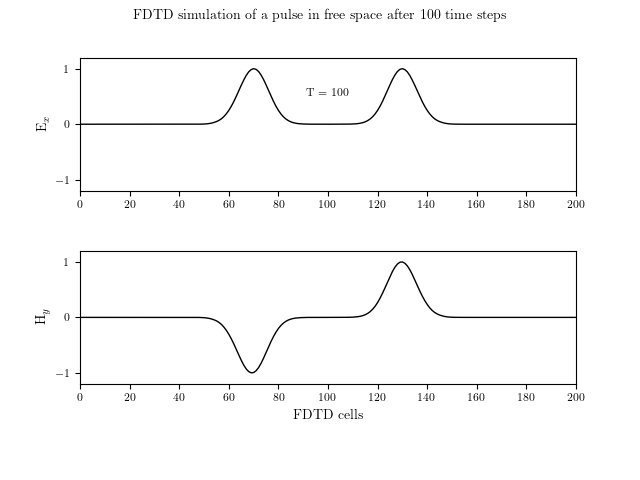
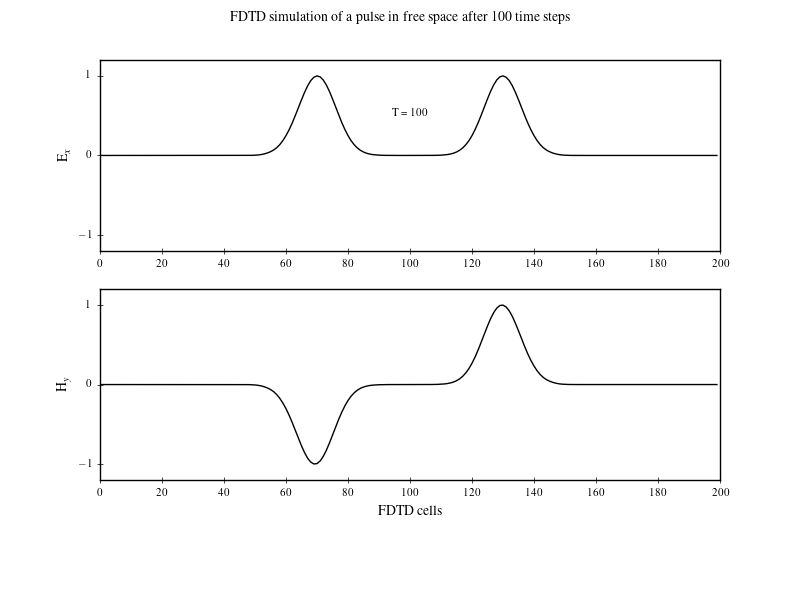
simulation in free space

diff --git a/fd1d/program/fd1d_1_1.py b/fd1d/program/fd1d_1_1.py
@@ -7,54 +7,86 @@
 # FDTD simulation of a pulse in free space after 100 steps.
 # The pulse originated in the center and travels outward.
 
-import matplotlib
 import matplotlib.pyplot as plt
 import numpy as np
 
-matplotlib.rcParams["text.usetex"] = True
-matplotlib.rcParams["pgf.texsystem"] = "pdflatex"
-matplotlib.rcParams.update(
-    {
-        "font.family": "serif",
-        "font.size": 8,
-        "axes.labelsize": 10,
-        "axes.titlesize": 10,
-        "figure.titlesize": 10,
-    }
-)
+plt.style.use("classic")
+plt.style.use("../pyplot.mplstyle")
 
-ke = 201
-ex = np.zeros(ke)
-hy = np.zeros(ke)
 
-# Pulse parameters
-kc = int(ke / 2)
-t0 = 40
-spread = 12
-nsteps = 100
+def visualize(ex: np.ndarray, hy: np.ndarray) -> None:
+    """Data visualization with Matplotlib"""
 
-# FDTD loop
-for time_step in range(1, nsteps + 1):
+    fig, (ax1, ax2) = plt.subplots(2, sharex=False, gridspec_kw={"hspace": 0.2})
+    fig.suptitle(r"FDTD simulation of a pulse in free space after 100 time steps")
+    ax1.plot(ex, "k", lw=1)
+    ax1.text(100, 0.5, "T = 100", horizontalalignment="center")
+    ax1.set(xlim=(0, 200), ylim=(-1.2, 1.2), ylabel=r"E$_x$")
+    ax1.set(xticks=range(0, 220, 20), yticks=np.arange(-1, 1.2, 1))
+    ax2.plot(hy, "k", lw=1)
+    ax2.set(xlim=(0, 200), ylim=(-1.2, 1.2), xlabel=r"FDTD cells", ylabel=r"H$_y$")
+    ax2.set(xticks=range(0, 220, 20), yticks=np.arange(-1, 1.2, 1))
+    plt.subplots_adjust(bottom=0.2, hspace=0.45)
+    plt.savefig("fd1d_1_1.png")
 
-    # calculate the Ex field
-    for k in range(1, ke):
-        ex[k] = ex[k] + 0.5 * (hy[k - 1] - hy[k])
 
-    # put a Gaussian pulse in the middle
-    ex[kc] = np.exp(-0.5 * ((t0 - time_step) / spread) ** 2)
+def gaussian(t: int, t0: int = 40, sigma: float = 12) -> float:
+    """
+    Gaussian pulse source
 
-    # calculate the Hy field
-    for k in range(ke - 1):
-        hy[k] = hy[k] + 0.5 * (ex[k] - ex[k + 1])
+    :param int t: an integer counter that serves as the temporal index
+    :param int t0: time step at which gaussian function is maximum, default 40
+    :param float sigma: width of the gaussian pulse, default 12
 
-fig, (ax1, ax2) = plt.subplots(2)
-fig.suptitle(r"FDTD simulation of a pulse in free space after 100 time steps")
-ax1.plot(ex, "k", lw=1)
-ax1.text(100, 0.5, "T = {}".format(time_step), horizontalalignment="center")
-ax1.set(xlim=(0, 200), ylim=(-1.2, 1.2), ylabel=r"E$_x$")
-ax1.set(xticks=range(0, 220, 20), yticks=np.arange(-1, 1.2, 1))
-ax2.plot(hy, "k", lw=1)
-ax2.set(xlim=(0, 200), ylim=(-1.2, 1.2), xlabel=r"FDTD cells", ylabel=r"H$_y$")
-ax2.set(xticks=range(0, 220, 20), yticks=np.arange(-1, 1.2, 1))
-plt.subplots_adjust(bottom=0.2, hspace=0.45)
-plt.savefig("fd1d_1_1.png")
+    :return: gaussian pulse
+    :rtype: float
+
+    """
+
+    return np.exp(-0.5 * ((t - t0) / sigma) ** 2)
+
+
+def simulate(ke: int, ex: np.ndarray, hy: np.ndarray) -> tuple[np.ndarray, np.ndarray]:
+    """
+    Finite-difference time-domain method
+
+    :param int ke: number of electric and magnetic field nodes
+    :param np.ndarray ex: electric field oriented in the x direction
+    :param np.ndarray hy: magnetic field oriented in the y direction
+
+    :return: ex, hy: electric and magnetic field
+    :rtype: tuple[np.ndarray, np.ndarray]
+
+    """
+
+    kc: int = ke // 2
+    nsteps: int = 100
+
+    # FDTD simulation loop
+    for t in range(1, nsteps + 1):
+
+        # calculate the Ex field
+        ex[1:ke] = ex[1:ke] + 0.5 * (hy[0:ke-1] - hy[1:ke])
+
+        # put a Gaussian pulse in the middle
+        ex[kc] = gaussian(t, 40, 12)
+
+        # calculate the Hy field
+        hy[0:ke-1] = hy[0:ke-1] + 0.5 * (ex[0:ke-1] - ex[1:ke])
+
+    return ex, hy
+
+
+def main():
+    """Main function"""
+
+    ke = 200
+    ex = np.zeros(ke, dtype=np.float64)
+    hy = np.zeros(ke, dtype=np.float64)
+
+    ex, hy = simulate(ke, ex, hy)
+    visualize(ex, hy)
+
+
+if __name__ == "__main__":
+    main()
